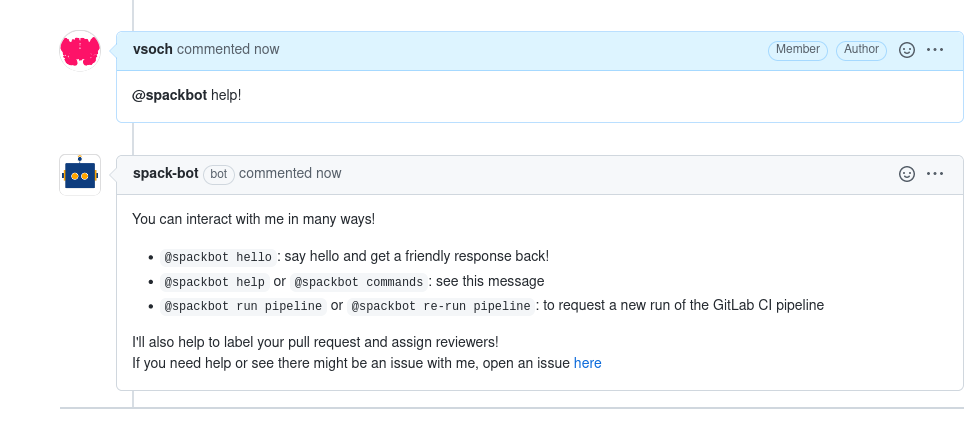
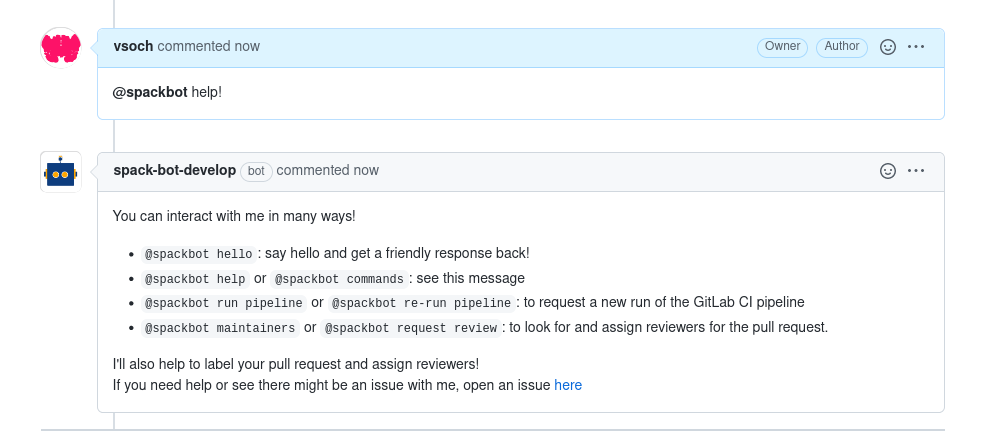
allowing spackbot to respond to request to assign maintainers

diff --git a/spackbot/handlers/reviewers.py b/spackbot/handlers/reviewers.py
@@ -6,6 +6,7 @@
 import logging
 import os
 import re
+import requests
 
 from sh.contrib import git
 from gidgethub import routing
@@ -124,9 +125,16 @@ async def add_reviewers(event, gh):
 
     If a package does not have any maintainers yet, request them.
     """
-    pull_request = event.data["pull_request"]
+    # If it's sent from a comment, the PR needs to be retrieved
+    if "pull_request" in event.data:
+        pull_request = event.data["pull_request"]
+        number = event.data["number"]
+    else:
+        pr_url = event.data["issue"]["pull_request"]["url"]
+        pull_request = requests.get(pr_url).json()
+        number = pull_request["number"]
+
     repository = event.data["repository"]
-    number = event.data["number"]
 
     logger.info(f"Looking for reviewers for PR #{number}...")
 

diff --git a/spackbot/routes.py b/spackbot/routes.py
@@ -90,6 +90,11 @@ async def add_comments(event, gh, *args, session, **kwargs):
         logger.debug("Responding to request for help commands.")
         message = comments.commands_message
 
+    # @spackbot maintainers or @spackbot request review
+    elif re.search("@spackbot (maintainers|request review)", comment, re.IGNORECASE):
+        logger.debug("Responding to request to assign maintainers for review.")
+        await handlers.add_reviewers(event, gh)
+
     # @spackbot run pipeline | @spackbot re-run pipeline
     elif re.search("@spackbot (re-)?run pipeline", comment, re.IGNORECASE):
         logger.info("Responding to request to re-run pipeline...")

diff --git a/spackbot/comments.py b/spackbot/comments.py
@@ -42,6 +42,7 @@ You can interact with me in many ways!
 - `@spackbot hello`: say hello and get a friendly response back!
 - `@spackbot help` or `@spackbot commands`: see this message 
 - `@spackbot run pipeline` or `@spackbot re-run pipeline`: to request a new run of the GitLab CI pipeline 
+- `@spackbot maintainers` or `@spackbot request review`: to look for and assign reviewers for the pull request.
 
 I'll also help to label your pull request and assign reviewers!
 If you need help or see there might be an issue with me, open an issue [here](https://github.com/spack/spack-bot/issues)

diff --git a/docs/docs/user-guide/user-guide.md b/docs/docs/user-guide/user-guide.md
@@ -62,12 +62,23 @@ or adding more labels for an extensive change to a package:
 
 ## Maintainers
 
-?> automated interaction
+?> automated interaction and chat command
 
 Spackbot is also looking out for packages! When you open a pull request and a package
 doesn't have a maintainer, spackbot will make suggestions.
 
 ![img/maintainers.png](img/maintainers.png)
+
+If for some reason you change the pull request or otherwise want to look for maintainers
+again, either of the following will work:
+
+```bash
+@spackbot maintainers
+@spackbot request review
+```
+
+![img/ask-for-maintainers.png](img/ask-for-maintainers.png)
+
 
 ## Say Hello
 
